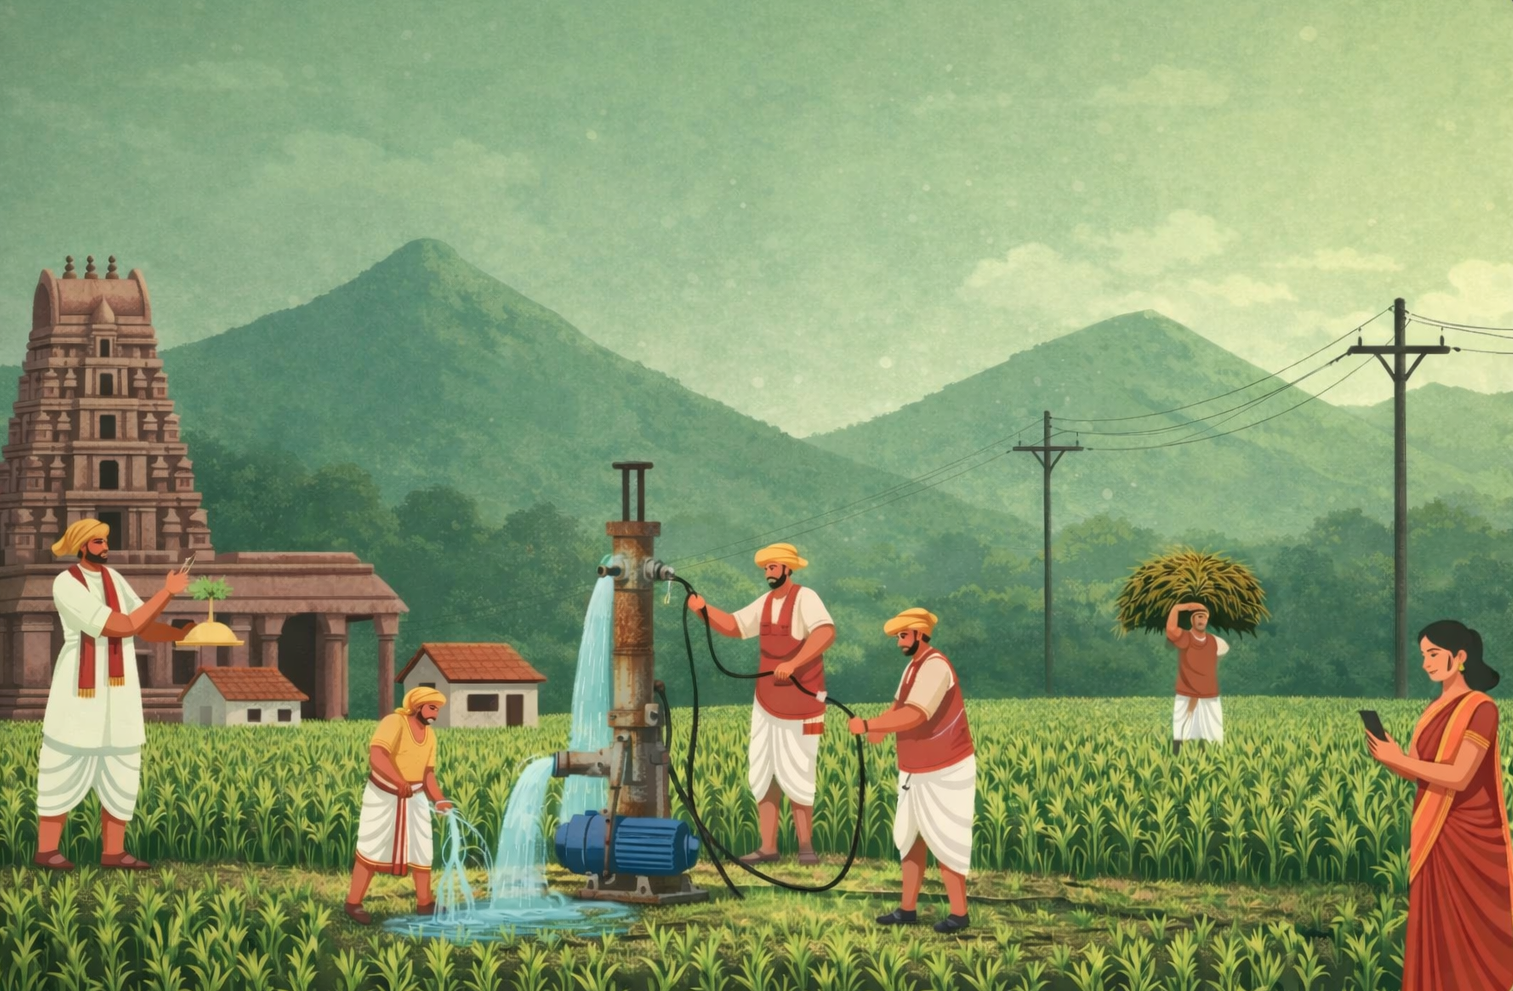
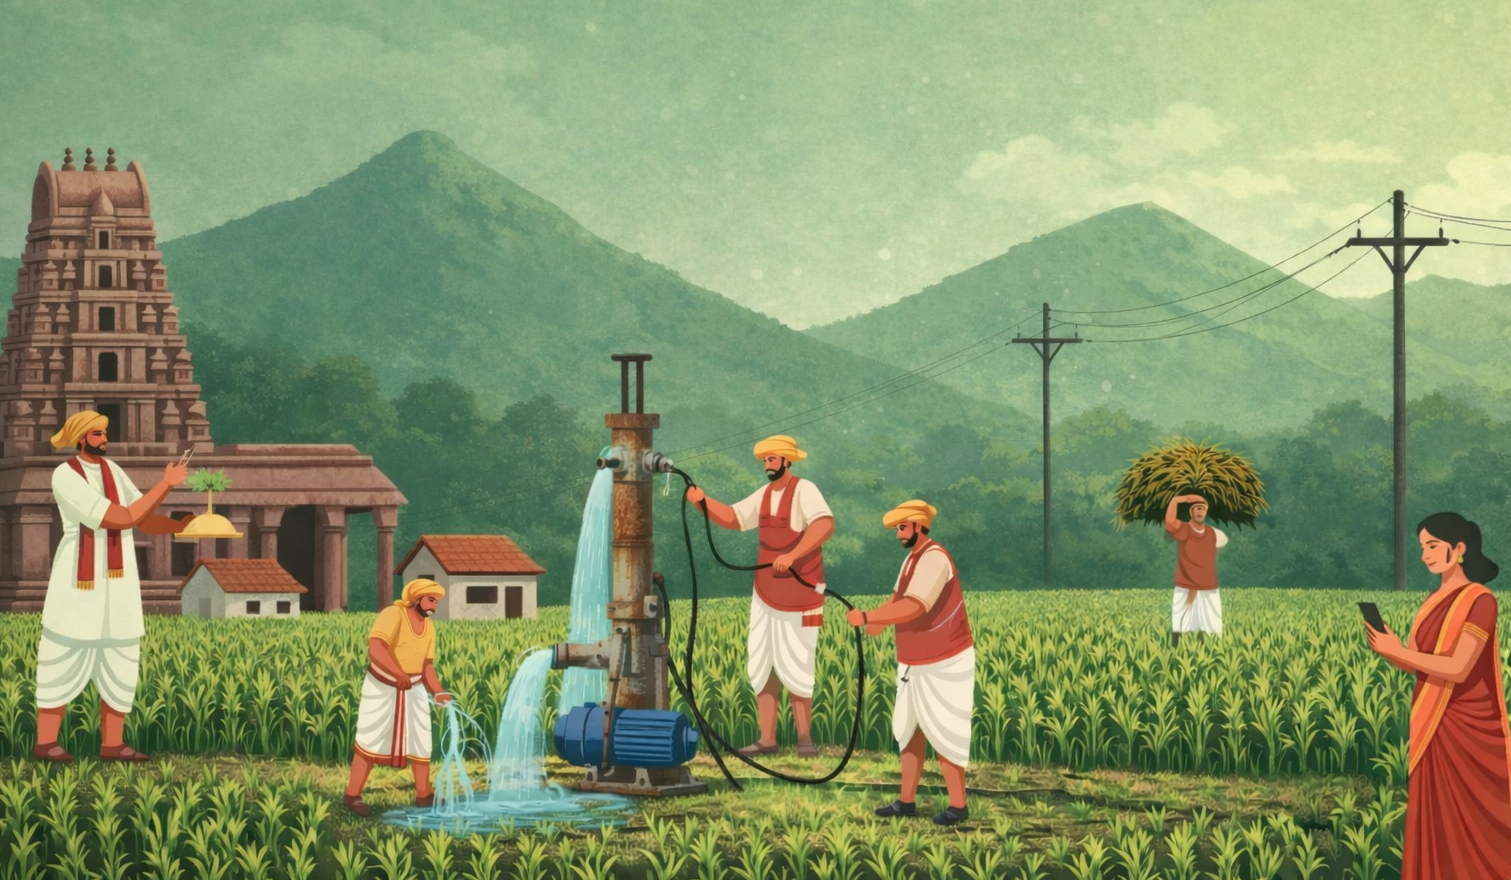
Updated

diff --git a/FRONTEND/Admin/src/pages/Admin/Auth/SignIn.jsx b/FRONTEND/Admin/src/pages/Admin/Auth/SignIn.jsx
@@ -73,7 +73,7 @@ const SignIn = ({ handleSignIn, userInfo }) => {
                                         <input
                                             type="email"
                                             className="form-control border-0 shadow-none bg-transparent"
-                                            placeholder="user@gmail.com"
+                                            placeholder="Enter your email"
                                             value={user_email}
                                             onChange={(e) => setEmail(sanitizeEmail(e.target.value))}
                                             required
@@ -89,7 +89,7 @@ const SignIn = ({ handleSignIn, userInfo }) => {
                                         <input
                                             type={showPassword ? "text" : "password"}
                                             className="form-control border-0 shadow-none bg-transparent"
-                                            placeholder="Password"
+                                            placeholder="Enter your 6-digit password"
                                             value={passwords}
                                             onChange={(e) => setPassword(sanitizePassword(e.target.value))}
                                             required
@@ -120,7 +120,7 @@ const SignIn = ({ handleSignIn, userInfo }) => {
                                             boxShadow: '0 4px 15px rgba(139, 128, 249, 0.3)'
                                         }}
                                     >
-                                        <span>{loadingSubmit ? "login..." : "login..."}</span>
+                                        <span>{loadingSubmit ? "login" : "login"}</span>
                                         <i className="fas fa-arrow-right ms-2"></i>
                                     </button>
                                 </div>
@@ -147,7 +147,7 @@ const SignIn = ({ handleSignIn, userInfo }) => {
                     </div>
                 </div>
                 <div style={{ opacity: 0.6, textAlign: 'right', fontWeight: '500' }}>
-                    @{new Date().getFullYear()} All Rights Reserved
+                    Outdid Unified Pvt Ltd @{new Date().getFullYear()} All Rights Reserved
                 </div>
             </div>
         </div>

diff --git a/FRONTEND/Admin/src/hooks/Admin/useSignIn.js b/FRONTEND/Admin/src/hooks/Admin/useSignIn.js
@@ -1,4 +1,4 @@
-import { useState } from 'react';
+import { useState, useEffect } from 'react';
 import { sanitizeEmail, sanitizePassword } from '../../utils/validation';
 
 const useSignIn = (handleSignIn) => {
@@ -8,6 +8,15 @@ const useSignIn = (handleSignIn) => {
     const [errorMessage, setErrorMessage] = useState('');
     const [successMessage, setSuccessMessage] = useState('');
     const [loadingSubmit, setLoadingSubmit] = useState(false);
+
+    useEffect(() => {
+        if (errorMessage) {
+            const timer = setTimeout(() => {
+                setErrorMessage('');
+            }, 5000);
+            return () => clearTimeout(timer);
+        }
+    }, [errorMessage]);
 
     const handleSignInFormSubmit = async (e) => {
         e.preventDefault();
@@ -19,14 +28,12 @@ const useSignIn = (handleSignIn) => {
         // Email validation (checking if the sanitized email contains "@" and ".")
         if (!sanitizedEmail.includes('@') || !sanitizedEmail.includes('.')) {
             setErrorMessage('Invalid email address.');
-            setTimeout(() => setErrorMessage(''), 5000);
             return;
         }
 
-        // Password validation (check for a valid 4-digit password)
+        // Password validation (check for a valid 6-digit password)
         if (sanitizedPassword.length !== 6) {
-            setErrorMessage('Password must be a 4-digit number.');
-            setTimeout(() => setErrorMessage(''), 5000);
+            setErrorMessage('Password must be a 6-digit number.');
             return;
         }
 
@@ -63,7 +70,6 @@ const useSignIn = (handleSignIn) => {
         } catch (error) {
             setErrorMessage('An error occurred during sign-in. Please try again later.');
             setSuccessMessage('');
-            setTimeout(() => setErrorMessage(''), 5000);
             setLoadingSubmit(false);
         }
     };
